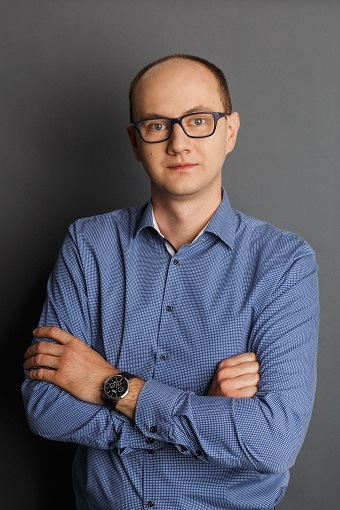
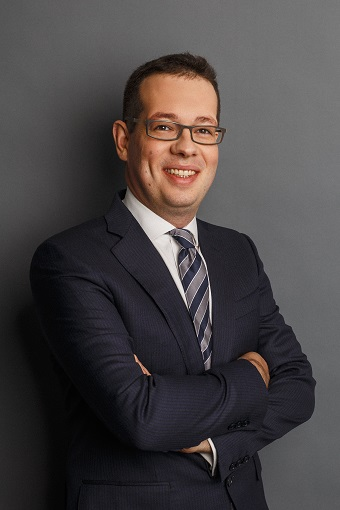
Fix: zdjecia Raphael/Laurent, Services layout expand, WhyExco linki
- Zdjecia: Raphael=MG_4034.jpg, Laurent=MG_4005.jpg (poprzednio odwrócone)
- Services: zamiana height:0->auto na layout-based animation (niezawodna w FM v12)
- WhyExco: pilary z linkami w rozwinięciu (EXCO Legal, A2A, kontakt)

diff --git a/src/components/Services.tsx b/src/components/Services.tsx
@@ -33,7 +33,7 @@ export default function Services() {
           </motion.h2>
           <motion.p initial={{ opacity: 0 }} whileInView={{ opacity: 1 }} viewport={{ once: true }}
             transition={{ delay: 0.2 }} className="text-[#0A2E1E]/40 text-sm mt-4">
-            Kliknij usługę, aby rozwinąć szczegóły.
+            Kliknij usługę, aby zobaczyć pełny zakres.
           </motion.p>
         </div>
 
@@ -46,13 +46,14 @@ export default function Services() {
             return (
               <motion.div
                 key={svc.id}
+                layout
                 initial={{ opacity: 0, y: 24 }}
                 whileInView={{ opacity: 1, y: 0 }}
                 viewport={{ once: true, margin: '-50px' }}
-                transition={{ duration: 0.5, delay: i * 0.07 }}
-                whileHover={{ scale: isOpen ? 1 : 1.025, y: isOpen ? 0 : -5 }}
+                transition={{ layout: { duration: 0.3, ease: 'easeInOut' }, duration: 0.5, delay: i * 0.07 }}
+                whileHover={!isOpen ? { scale: 1.025, y: -5 } : {}}
                 onClick={() => setExpanded(isOpen ? null : svc.id)}
-                className={`rounded-xl border cursor-pointer overflow-hidden transition-all duration-300 ${
+                className={`rounded-xl border cursor-pointer transition-colors duration-300 ${
                   isOpen
                     ? 'border-[#C9A84C]/50 bg-[#0A2E1E] shadow-2xl shadow-[#0A2E1E]/30'
                     : 'border-[#0A2E1E]/8 bg-white hover:border-[#C9A84C]/50 hover:shadow-xl hover:shadow-[#0A2E1E]/8'
@@ -61,15 +62,15 @@ export default function Services() {
                 {/* Always-visible top */}
                 <div className="p-7">
                   <div className="flex items-start justify-between mb-5">
-                    <div className={`w-12 h-12 rounded-xl flex items-center justify-center transition-all duration-300 ${
+                    <div className={`w-12 h-12 rounded-xl flex items-center justify-center transition-colors duration-300 ${
                       isOpen ? 'bg-[#C9A84C]/20' : 'bg-[#0A2E1E]/6'
                     }`}>
-                      <Icon size={22} className={isOpen ? 'text-[#C9A84C]' : 'text-[#0A2E1E]'} />
+                      <Icon size={22} className={`transition-colors duration-300 ${isOpen ? 'text-[#C9A84C]' : 'text-[#0A2E1E]'}`} />
                     </div>
                     <motion.div
                       animate={{ rotate: isOpen ? 180 : 0 }}
                       transition={{ duration: 0.25 }}
-                      className={`mt-1 ${isOpen ? 'text-[#C9A84C]/50' : 'text-[#0A2E1E]/20'}`}
+                      className={`mt-1 transition-colors duration-300 ${isOpen ? 'text-[#C9A84C]/60' : 'text-[#0A2E1E]/20'}`}
                     >
                       <ChevronDown size={16} />
                     </motion.div>
@@ -84,44 +85,46 @@ export default function Services() {
                   }`}>{svc.shortDesc}</p>
                 </div>
 
-                {/* Expandable detail */}
+                {/* Expandable detail — layout-driven, no height animation bug */}
                 <AnimatePresence initial={false}>
                   {isOpen && (
                     <motion.div
-                      initial={{ height: 0, opacity: 0 }}
-                      animate={{ height: 'auto', opacity: 1 }}
-                      exit={{ height: 0, opacity: 0 }}
-                      transition={{ duration: 0.35, ease: 'easeInOut' }}
-                      className="overflow-hidden"
+                      key="detail"
+                      initial={{ opacity: 0 }}
+                      animate={{ opacity: 1 }}
+                      exit={{ opacity: 0 }}
+                      transition={{ duration: 0.22 }}
                     >
-                      <div className="px-7 pb-7 border-t border-white/10 pt-5">
-                        <p className="text-white/65 text-sm leading-relaxed mb-5">
-                          {svc.description}
-                        </p>
-                        <p className="text-[#C9A84C]/70 text-[10px] font-semibold tracking-widest uppercase mb-3">
-                          Zakres usługi
-                        </p>
-                        <ul className="space-y-2 mb-6">
-                          {svc.scope.map((item, j) => (
-                            <motion.li
-                              key={j}
-                              initial={{ opacity: 0, x: -8 }}
-                              animate={{ opacity: 1, x: 0 }}
-                              transition={{ delay: j * 0.05 }}
-                              className="flex items-start gap-2.5"
-                            >
-                              <CheckCircle2 size={13} className="text-[#C9A84C] mt-0.5 shrink-0" />
-                              <span className="text-white/65 text-xs leading-relaxed">{item}</span>
-                            </motion.li>
-                          ))}
-                        </ul>
-                        <a
-                          href="#kontakt"
-                          onClick={e => e.stopPropagation()}
-                          className="block text-center px-5 py-2.5 bg-[#C9A84C] text-[#0A2E1E] font-semibold rounded-sm hover:bg-[#E2C77A] transition-colors text-sm"
-                        >
-                          Zapytaj o tę usługę
-                        </a>
+                      <div className="px-7 pb-7 pt-0">
+                        <div className="border-t border-white/10 pt-5">
+                          <p className="text-white/65 text-sm leading-relaxed mb-5">
+                            {svc.description}
+                          </p>
+                          <p className="text-[#C9A84C]/70 text-[10px] font-semibold tracking-widest uppercase mb-3">
+                            Zakres usługi
+                          </p>
+                          <ul className="space-y-2 mb-6">
+                            {svc.scope.map((item, j) => (
+                              <motion.li
+                                key={j}
+                                initial={{ opacity: 0, x: -8 }}
+                                animate={{ opacity: 1, x: 0 }}
+                                transition={{ delay: 0.1 + j * 0.05 }}
+                                className="flex items-start gap-2.5"
+                              >
+                                <CheckCircle2 size={13} className="text-[#C9A84C] mt-0.5 shrink-0" />
+                                <span className="text-white/65 text-xs leading-relaxed">{item}</span>
+                              </motion.li>
+                            ))}
+                          </ul>
+                          <a
+                            href="#kontakt"
+                            onClick={e => e.stopPropagation()}
+                            className="block text-center px-5 py-2.5 bg-[#C9A84C] text-[#0A2E1E] font-semibold rounded-sm hover:bg-[#E2C77A] transition-colors text-sm"
+                          >
+                            Zapytaj o tę usługę
+                          </a>
+                        </div>
                       </div>
                     </motion.div>
                   )}

diff --git a/src/components/WhyExco.tsx b/src/components/WhyExco.tsx
@@ -1,31 +1,53 @@
 import { useState } from 'react';
 import { motion, AnimatePresence } from 'framer-motion';
-import { Scale, Calculator, FileSearch, Building2, ChevronDown } from 'lucide-react';
+import { Scale, Calculator, FileSearch, Building2, ChevronDown, ExternalLink } from 'lucide-react';
 
-const pillars = [
+interface Pillar {
+  icon: React.FC<{ size?: number; className?: string }>;
+  title: string;
+  desc: string;
+  detail: string;
+  links?: { label: string; url: string }[];
+}
+
+const pillars: Pillar[] = [
   {
     icon: Building2,
     title: 'Jeden dom, pełna obsługa',
     desc: 'EXCO Advisory działa ramię w ramię z EXCO Legal i EXCO Audit & Tax. Klient dostaje wszystko w jednym miejscu.',
-    detail: 'Koniec z koordynowaniem kilku firm, rozbieżnymi rekomendacjami i traceniem czasu na tłumaczenie kontekstu każdemu nowemu doradcy. W EXCO prawnicy, finansiści i audytorzy pracują razem od pierwszego dnia projektu.',
+    detail: 'Koniec z koordynowaniem kilku firm i rozbieżnymi rekomendacjami. W EXCO prawnicy, finansiści i audytorzy pracują razem od pierwszego dnia projektu — wspólna strategia, spójna komunikacja, jedna odpowiedzialność.',
+    links: [
+      { label: 'EXCO Legal — kancelaria prawna', url: 'https://exco-legal.vercel.app' },
+      { label: 'EXCO A2A — audyt i podatki', url: 'https://excopl.vercel.app' },
+    ],
   },
   {
     icon: Calculator,
     title: 'Finanse i prawo razem',
     desc: 'Nasze rozwiązania finansowe są od razu weryfikowane pod kątem prawnym i podatkowym.',
-    detail: 'Przy transakcjach M&A, restrukturyzacjach i wycenach aspekty finansowe i prawne są nierozerwalnie powiązane. Każda decyzja finansowa ma swoje implikacje prawne i podatkowe — rozumiemy to i pracujemy w zintegrowanych zespołach, a nie w silosach.',
+    detail: 'Przy transakcjach M&A, restrukturyzacjach i wycenach każda decyzja finansowa ma swoje implikacje prawne i podatkowe. Pracujemy w zintegrowanych zespołach, a nie w silosach — klient dostaje jedną, spójną rekomendację.',
+    links: [
+      { label: 'Dowiedz się więcej o EXCO Legal', url: 'https://exco-legal.vercel.app' },
+    ],
   },
   {
     icon: FileSearch,
     title: 'Fakty, nie szablony',
     desc: 'Nie kopiujemy rozwiązań z innych projektów. Każde zlecenie analizujemy od podstaw.',
-    detail: 'Model finansowy budowany na podstawie realnych danych klienta, nie benchmarków branżowych. Strategia oparta na konkretnej sytuacji firmy, nie na "best practices" z prezentacji. Dlatego nasze rekomendacje są wykonalne, a nie tylko "inspirujące".',
+    detail: 'Model finansowy budowany na realnych danych klienta, nie benchmarkach branżowych. Strategia oparta na konkretnej sytuacji firmy, nie na "best practices" z prezentacji. Dlatego nasze rekomendacje są wykonalne — a nie tylko inspirujące.',
+    links: [
+      { label: 'Zobacz nasze usługi', url: '#uslugi' },
+      { label: 'Umów konsultację', url: '#kontakt' },
+    ],
   },
   {
     icon: Scale,
     title: 'Sieć EXCO International',
     desc: 'Należymy do sieci EXCO International działającej w 27 krajach.',
-    detail: 'Gdy Twój projekt wymaga wiedzy o rynku niemieckim, francuskiej spółce holdingowej lub ukraińskich regulacjach podatkowych — mamy bezpośredni dostęp do ekspertów lokalnych. Bez pośredników, bez długich wyszukiwań, bez ryzyka że ktoś nie zna lokalnych realiów.',
+    detail: 'Gdy projekt wymaga wiedzy o rynku niemieckim, francuskiej spółce holdingowej lub lokalnych regulacjach podatkowych w Europie Środkowej — mamy bezpośredni dostęp do ekspertów lokalnych. Bez pośredników, z pełnym rozumieniem lokalnych realiów.',
+    links: [
+      { label: 'EXCO A2A Polska — strona grupy', url: 'https://excopl.vercel.app' },
+    ],
   },
 ];
 
@@ -83,26 +105,27 @@ export default function WhyExco() {
                     <span className="text-white/30 text-xs ml-2">·</span>
                     <span className="text-white/30 text-xs ml-2">{item.desc}</span>
                   </div>
-                  {item.url !== '#' && <span className="text-white/30 text-xs">↗</span>}
+                  {item.url !== '#' && <ExternalLink size={12} className="text-white/25" />}
                 </motion.a>
               ))}
             </motion.div>
           </div>
 
-          {/* Right — interactive pillars */}
-          <div className="grid grid-cols-1 sm:grid-cols-2 gap-4">
+          {/* Right — interactive pillars with layout */}
+          <div className="grid grid-cols-1 sm:grid-cols-2 gap-4 items-start">
             {pillars.map((p, i) => {
               const isOpen = expanded === i;
               return (
                 <motion.div
                   key={i}
+                  layout
                   initial={{ opacity: 0, y: 24 }}
                   whileInView={{ opacity: 1, y: 0 }}
                   viewport={{ once: true, margin: '-40px' }}
-                  transition={{ duration: 0.5, delay: i * 0.09 }}
-                  whileHover={{ scale: isOpen ? 1 : 1.03, y: isOpen ? 0 : -4 }}
+                  transition={{ layout: { duration: 0.3, ease: 'easeInOut' }, duration: 0.5, delay: i * 0.09 }}
+                  whileHover={!isOpen ? { scale: 1.03, y: -4 } : {}}
                   onClick={() => setExpanded(isOpen ? null : i)}
-                  className={`rounded-xl border cursor-pointer overflow-hidden transition-all duration-300 ${
+                  className={`rounded-xl border cursor-pointer transition-colors duration-300 ${
                     isOpen
                       ? 'border-[#C9A84C]/40 bg-white/8 shadow-lg shadow-black/20'
                       : 'border-white/8 bg-white/5 hover:border-[#C9A84C]/25 hover:bg-white/8'
@@ -130,15 +153,30 @@ export default function WhyExco() {
                   <AnimatePresence initial={false}>
                     {isOpen && (
                       <motion.div
-                        initial={{ height: 0, opacity: 0 }}
-                        animate={{ height: 'auto', opacity: 1 }}
-                        exit={{ height: 0, opacity: 0 }}
-                        transition={{ duration: 0.28, ease: 'easeInOut' }}
-                        className="overflow-hidden"
+                        key="pillar-detail"
+                        initial={{ opacity: 0 }}
+                        animate={{ opacity: 1 }}
+                        exit={{ opacity: 0 }}
+                        transition={{ duration: 0.2 }}
                       >
-                        <p className="px-5 pb-5 text-white/55 text-xs leading-relaxed border-t border-white/8 pt-4">
-                          {p.detail}
-                        </p>
+                        <div className="px-5 pb-5 border-t border-white/8 pt-4">
+                          <p className="text-white/55 text-xs leading-relaxed mb-4">{p.detail}</p>
+                          {p.links && p.links.length > 0 && (
+                            <div className="space-y-1.5">
+                              {p.links.map((link, j) => (
+                                <a
+                                  key={j}
+                                  href={link.url}
+                                  onClick={e => e.stopPropagation()}
+                                  className="flex items-center gap-1.5 text-[#C9A84C] text-xs hover:text-[#E2C77A] transition-colors"
+                                >
+                                  <ExternalLink size={10} className="shrink-0" />
+                                  {link.label}
+                                </a>
+                              ))}
+                            </div>
+                          )}
+                        </div>
                       </motion.div>
                     )}
                   </AnimatePresence>
@@ -146,6 +184,7 @@ export default function WhyExco() {
               );
             })}
           </div>
+
         </div>
       </div>
     </section>